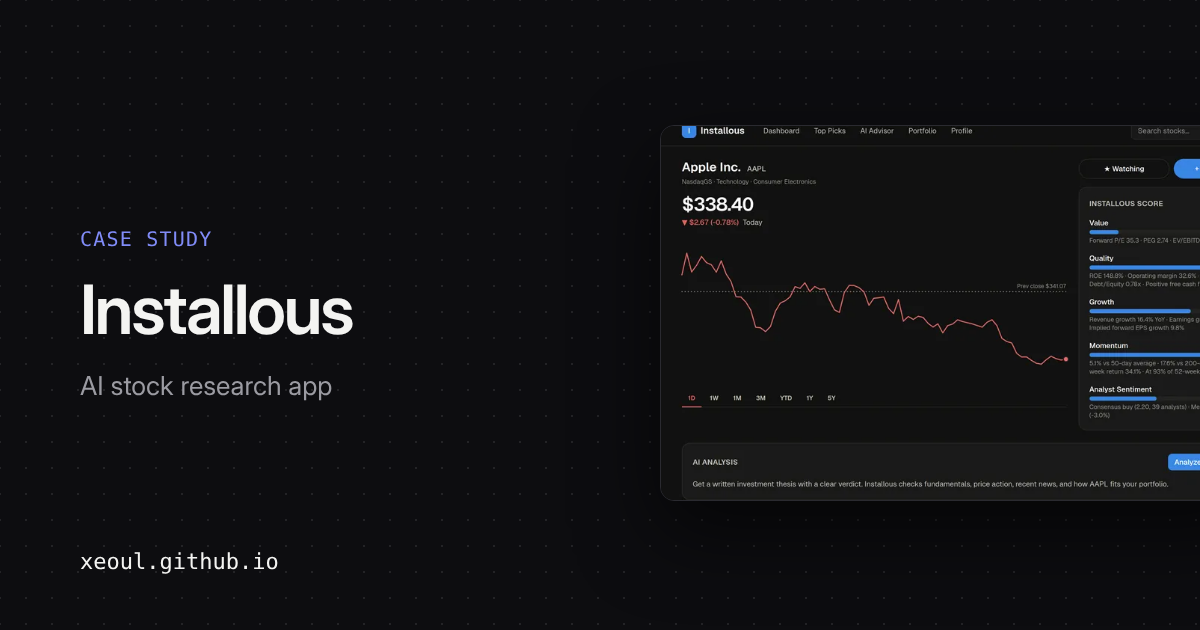
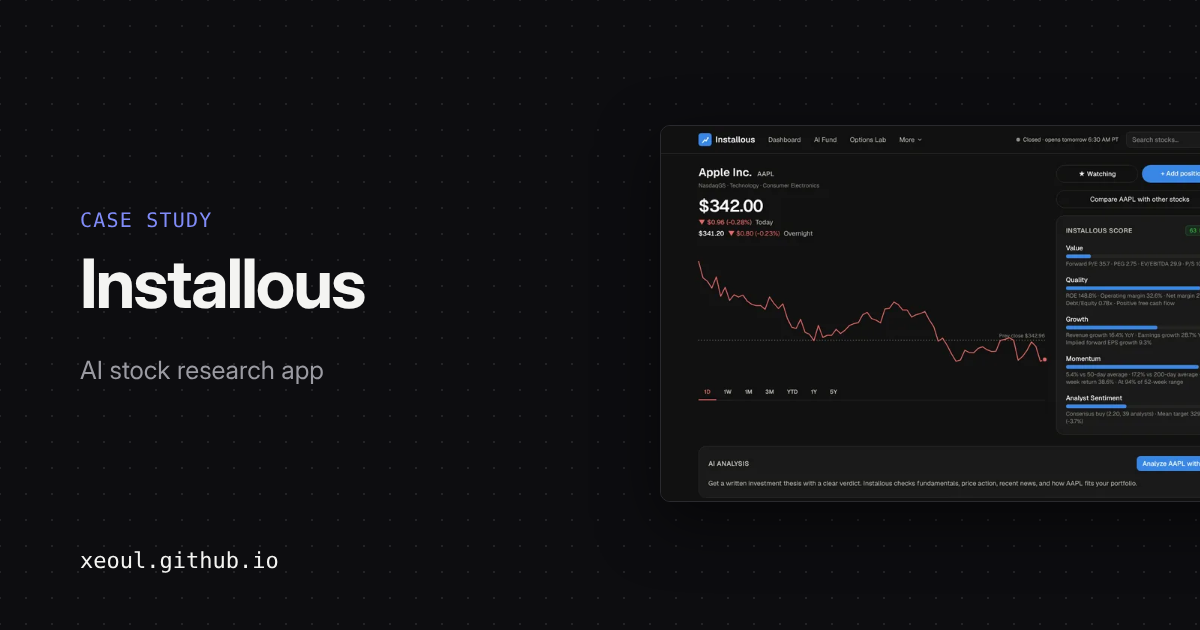
Bring Installous, Nagare and Sous Chef up to date with their repos
Installous: the Options Lab is now the live SPX condor bot on a 1-3-6
ladder (settle at 4:05, open the next from the real result), not the
SPY martingale simulator; charts are plain SVG, not Recharts; adds the
market clock, phone notifications and the condor workflow's self-
handoff. New Options Lab and stock-page screenshots.

Nagare: N5-N1 graded readings, ~30 Aozora classics including full
novels read a chapter at a time, Aozora search, the Tadoku shelf, PDF
import, the paged reader and the desktop layout. New reader screenshot.

Sous Chef: the demo is now the full app (aisles, pantry, planner,
cook-along, menus, desktop layout) with 273 checks; adds the per-recipe
check-off fix. New desktop shopping-list screenshot.

Link-preview cards regenerated for all three.

Claude-Session: https://claude.ai/code/session_01Rd5aH3btFtGoKzvAKSCB7M

diff --git a/docs/projects/installous/index.html b/docs/projects/installous/index.html
@@ -3,11 +3,11 @@
 <head>
     <meta charset="utf-8">
     <meta name="viewport" content="width=device-width, initial-scale=1, viewport-fit=cover">
-    <meta name="description" content="How Installous works: a stock research app with live market data, a transparent five-factor score, a Claude-powered analyst that looks things up with live tools, a rules-only AI Fund and an options lab that trade paper money against the S&amp;P 500.">
+    <meta name="description" content="How Installous works: a stock research app with live market data, a transparent five-factor score, a Claude-powered analyst that looks things up with live tools, a rules-only AI Fund against the S&amp;P 500, and a live paper bot that trades SPX iron condors.">
     <meta property="og:type" content="article">
     <meta property="og:url" content="https://xeoul.github.io/projects/installous/">
     <meta property="og:title" content="Installous case study - Vincent Lam">
-    <meta property="og:description" content="How Installous works: a stock research app with live market data, a transparent five-factor score, a Claude-powered analyst that looks things up with live tools, a rules-only AI Fund and an options lab that trade paper money against the S&amp;P 500.">
+    <meta property="og:description" content="How Installous works: a stock research app with live market data, a transparent five-factor score, a Claude-powered analyst that looks things up with live tools, a rules-only AI Fund against the S&amp;P 500, and a live paper bot that trades SPX iron condors.">
     <meta property="og:image" content="https://xeoul.github.io/images/og/installous.png">
     <meta property="og:image:width" content="1200">
     <meta property="og:image:height" content="630">
@@ -110,7 +110,7 @@
                         <dl class="case-meta">
                             <div>
                                 <dt>Stack</dt>
-                                <dd>TypeScript, Next.js, React, Tailwind CSS, Recharts, Claude API, Zod, Vitest, Yahoo Finance (REST and WebSocket), GitHub Actions</dd>
+                                <dd>TypeScript, Next.js, React, Tailwind CSS, SVG charts, Claude API, Zod, Vitest, Yahoo Finance (REST and WebSocket), GitHub Actions</dd>
                             </div>
                             <div>
                                 <dt>Links</dt>
@@ -133,21 +133,22 @@
                         <h2 id="features">What it does</h2>
                         <ul>
                             <li><strong>Dashboard:</strong> portfolio value, today's change, total gain or loss, a watchlist with one-day sparklines, and the day's top-ranked stocks.</li>
-                            <li><strong>Top Picks:</strong> ranks about 50 large-cap US stocks plus your watchlist by the Installous score, sortable by any factor and filterable by sector.</li>
+                            <li><strong>Top Picks:</strong> ranks about 50 large-cap US stocks plus your watchlist by the Installous score, with prices that update live, sortable by any factor and filterable by sector.</li>
                             <li><strong>Stock pages:</strong> a Robinhood-style chart with a live intraday view (a dotted previous-close line, green or red for up or down, and a price that rolls digit by digit as you follow it with your cursor), a price that ticks every second while the market is open, ranges from one week to five years, the factor breakdown, key metrics, news, and a one-click AI investment thesis.</li>
                             <li><strong>AI Advisor:</strong> a chat with an analyst that calls live tools and gives buy, hold or avoid views tailored to your risk tolerance, time horizon and goals.</li>
                             <li><strong>Portfolio:</strong> positions with average cost, live value, gain or loss, and weight.</li>
                             <li><strong><a href="https://xeoul.github.io/Installous/fund/" target="_blank" rel="noopener noreferrer">AI Fund</a>:</strong> a $100,000 paper-money portfolio that picks stocks by itself from the Installous score, started September 29, 2026. It shows its holdings, its track record against the S&amp;P 500, a five-year backtest of its rules, and a trade log that gives the reason for every buy and sell.</li>
-                            <li><strong><a href="https://xeoul.github.io/Installous/options/" target="_blank" rel="noopener noreferrer">Options Lab</a>:</strong> a paper bot that sells one same-day SPY iron condor every market day and doubles its size after each loss (the martingale), started October 12, 2026, above a simulator that replays the same idea over 20 years of S&amp;P 500 and VIX history, with a fixed size and the martingale side by side.</li>
+                            <li><strong><a href="https://xeoul.github.io/Installous/options/" target="_blank" rel="noopener noreferrer">Options Lab</a>:</strong> a live paper bot that trades one SPX (S&amp;P 500 index) iron condor at a time, started October 12, 2026. Right after each close it settles the condor expiring that day, sets the next size from a level ladder (1, 3 or 6 contracts: a loss moves up a level, any win goes back to 1), and sells the next one, expiring the next trading day. The page shows the order as it's placed and the open condor marked live off the index: profit or loss, a payoff chart and each leg's estimated price, plus the full trade history.</li>
                             <li><strong>Compare:</strong> up to four stocks side by side, with performance from the same starting day and their scores and fundamentals in one table.</li>
                             <li><strong>Earnings &amp; dividends:</strong> the next earnings date and estimates, the last four quarters' beats and misses, and yearly dividend history on every stock page.</li>
-                            <li><strong>Alerts and install:</strong> a GitHub issue assigned to the owner (which GitHub emails) whenever the fund trades, plus a weekly digest; and it installs to a phone's home screen like an app.</li>
+                            <li><strong>Alerts:</strong> a GitHub issue assigned to the owner (which GitHub emails) whenever the fund trades, plus a weekly digest, and a short phone notification for each condor trade or skipped day.</li>
+                            <li><strong>Built like a phone app:</strong> it installs to the home screen and opens full screen with a bottom tab bar, a "More" sheet for the less-used pages, and a market clock in the header that shows whether the market is open and when it next opens or closes.</li>
                         </ul>
                     </section>
 
                     <section class="case-section" aria-labelledby="build">
                         <h2 id="build">How it's built</h2>
-                        <p>Next.js with the App Router and TypeScript, styled with Tailwind CSS, with charts drawn by Recharts. Server-side API routes (stock, history, sparklines, picks, news, search, portfolio, watchlist, profile and chat) sit between the browser and the data. Market data comes from Yahoo Finance through yahoo-finance2 and needs no API key; the advisor uses the Anthropic SDK and streams its answer back. Live prices come from Yahoo's free streaming feed: the browser opens one shared WebSocket, decodes its protobuf messages itself, subscribes only to the tickers on screen, and reconnects with backoff, so it works in the static demo too.</p>
+                        <p>Next.js with the App Router and TypeScript, styled with Tailwind CSS. The charts are plain SVG drawn by the app's own code rather than a chart library, which keeps each page to about 180 to 190 KB of compressed JavaScript; the AI chat and its markdown renderer only load when used. Server-side API routes (stock, history, sparklines, picks, news, search, portfolio, watchlist, profile and chat) sit between the browser and the data. Market data comes from Yahoo Finance through yahoo-finance2 and needs no API key; the advisor uses the Anthropic SDK and streams its answer back. Live prices come from Yahoo's free streaming feed: the browser opens one shared WebSocket, decodes its protobuf messages itself, subscribes only to the tickers on screen, and reconnects with backoff, so it works in the static demo too.</p>
                         <p>Your watchlist, holdings and profile are saved to a local JSON file in a git-ignored folder, so positions never get committed.</p>
                     </section>
 
@@ -167,12 +168,13 @@
                         <p>A backtest replays the fund's rules over the last five years so there's something to judge them by before the live record matures. Free data only has today's company fundamentals, and scoring 2021 with 2026's numbers would quietly use the future, so the backtest ranks stocks by momentum alone, the part of the score that can be rebuilt from past prices. Each day's decisions use only prices up to the day before, and a test checks this: it fails if the backtest is changed to peek at the same day's price.</p>
                         <p>The first result looked too good: about +274% against +80% for the S&amp;P 500. So the page also shows a control, the same 50 stocks bought equally and held. That control returned about +152%, which means roughly half the gap came from the stock list itself (today's large caps, picked with hindsight), not from the rules. The rules still came out ahead overall but trailed buy-and-hold in 2023 and 2025, and the page says all of this next to the chart. (Figures from October 2026; the backtest re-runs with the live data.)</p>
                         <img class="case-preview" src="/images/projects/installous-fund.webp" width="800" height="500" loading="lazy" decoding="async" alt="Installous AI Fund backtest: five years of the momentum rules against the same 50 stocks held and the S&amp;P 500, with total return, yearly return, worst drop and volatility, and returns by year">
-                        <h3>A strategy test that shows how it fails</h3>
-                        <p>The martingale is a classic betting system: double the bet after every loss, so one win wins back everything. Selling iron condors looks made for it, because they win most days. The Options Lab puts that to a test instead of a pitch. With the defaults (same-day condors at 10 delta since 2006), the martingale finished about level with a fixed size, +117% against +117%, while its worst drop was deeper (7.1% against 5.0%) and its worst single trade almost four times bigger. A table beside the results shows why: after 7 losses in a row, the losses so far plus the next bet add up to more than the whole $25,000 account, and the page marks the dates each setting would have gone bust. (Figures from October 2026.)</p>
-                        <p>Historical option prices aren't free, so the simulator prices every option with Black-Scholes from that day's VIX, and same-day trades open with yesterday's VIX so they can't see the day they're betting on; tests check the pricing, strikes, settlement, sizing and that look-ahead rule. The live bot trades real (delayed) SPY quotes instead: strikes nearest 10 delta from the market's expected move, $2 wings, filled at the mid less a cent of slippage, and settled only on the official close. It only opens a trade while Yahoo reports the regular session open, so on a half day it can't "open" after the result is already known.</p>
-                        <img class="case-preview" src="/images/projects/installous-options.webp" width="800" height="500" loading="lazy" decoding="async" alt="Installous Options Lab: 20 years of same-day SPY iron condors with a fixed size and with martingale sizing, ending at about the same value, with the martingale's deeper worst drop and larger worst trade">
+                        <h3>A condor bot that trades like a person would</h3>
+                        <p>An iron condor sells a call spread above the market and a put spread below it, and keeps the money it collected if the index finishes between them. The bot trades the S&amp;P 500 index itself (SPX), whose options settle in cash at the 4pm close, with 5-point wings and short strikes placed so it collects about $2.50 a share: roughly +$250 on a win and -$250 on a full loss, per contract. Its sizing is a gentler martingale: three levels of 1, 3 and 6 contracts, where a loss moves up a level, any win goes back to the first, and a loss on the last level starts over instead of doubling into ruin. It skips a day when a Fed decision, a CPI report or a jobs report would land while the condor is open, or when the condor would pay under $1.50 a share.</p>
+                        <p>The first version opened the next condor at 3:27pm and sized it from a guess at how the expiring one would finish. One afternoon the index closed 16 cents on the wrong side of a short strike, the guess was wrong, and the real result never corrected the ladder. Index options trade until 4:15pm, so now the bot settles first, at 4:05pm, and opens the next condor between 4:05 and 4:14 from the real result. It fills at real (delayed) Yahoo quotes, prices monthly-expiration Fridays only from the SPXW contracts that settle at the close (the standard monthly SPX contract settles on that morning's open), and trades only when both Yahoo and an NYSE holiday and half-day calendar agree the market is open. Tests replay its real schedule over weeks of made-up days, including duplicate runs, weekends, Thanksgiving and a half day, and check that it opens exactly one condor a day at exactly its level's size.</p>
+                        <img class="case-preview" src="/images/projects/installous-options.webp" width="800" height="500" loading="lazy" decoding="async" alt="Installous Options Lab: the live SPX bot's next order, and its open iron condor with profit if closed now, a payoff chart marking the current index price, and each leg's strike and estimated price">
                         <h3>Keeping the scheduled jobs moving</h3>
-                        <p>The AI Fund and the condor bot both run in one scheduled GitHub Actions workflow. In October a Pages deploy sat waiting indefinitely, and because every run shared one queue, everything behind it was cancelled: the fund and the demo data stopped updating for six days. The workflow now gives the deploy its own queue, where a newer deploy replaces an older one, with a 15-minute timeout, while the step that updates the fund's state still runs strictly one at a time. Two later passes fixed about fifteen smaller bugs, from prices quoted in pence showing 100 times too high to tickers like BRK/B turning into a different company, with tests covering the fixes, for about 80 tests in all.</p>
+                        <p>The AI Fund runs in one scheduled GitHub Actions workflow. In October a Pages deploy sat waiting indefinitely, and because every run shared one queue, everything behind it was cancelled: the fund and the demo data stopped updating for six days. The workflow now gives the deploy its own queue, where a newer deploy replaces an older one, with a 15-minute timeout, while the step that updates the fund's state still runs strictly one at a time.</p>
+                        <p>The condor bot has to be running at the close every trading day, and GitHub skipped every scheduled run on one of its first days. So it has its own workflow that runs around the clock: each run steps the bot at its times and, before GitHub's six-hour job limit, starts the next run itself, which GitHub doesn't skip the way it skips scheduled runs. The schedule is only a fallback that restarts the chain if a run is ever lost, and one shared queue makes sure exactly one run carries it on. Fixes along the way, from prices quoted in pence showing 100 times too high to tickers like BRK/B turning into a different company, each came with a test, for about 125 tests in all.</p>
                         <h3>Useful without the AI</h3>
                         <p>Everything except the advisor works without an Anthropic API key: the dashboard, picks, charts and portfolio run on market data alone.</p>
                     </section>
@@ -181,7 +183,7 @@
                         <h2 id="limits">Current limits</h2>
                         <p>The full app is single-user and runs locally. The live demo is a static build of the same code: market data is a snapshot of about 50 large caps that a GitHub Action refreshes every 30 minutes while markets are open, your portfolio and watchlist stay in your browser, and the AI advisor runs with your own Anthropic API key. Top Picks ranks that fixed list plus your watchlist, not the whole market.</p>
                         <p>The AI Fund trades simulated money at the latest snapshot price, so real fills would differ a little. Its returns and the S&amp;P 500's both leave out dividends, and a track record measured in weeks says little about whether the rules actually work. The backtest can't test the fundamental factors and still carries some hindsight from its stock list, so it shows how the rules behave rather than predicting returns.</p>
-                        <p>The Options Lab's simulated prices ignore skew (crash protection usually costs more than Black-Scholes says), so its results are estimates, and the live bot fills at delayed mid prices. It's a learning tool for a strategy, not a recommendation to trade it.</p>
+                        <p>The condor bot trades paper money at delayed quotes, filled at the mid price less a cent of slippage, so real fills would differ. Its record is days old, and a strategy that wins most days can still lose several in a row. It's a learning tool for a strategy, not a recommendation to trade it.</p>
                     </section>
 
                     <nav class="case-pager" aria-label="More case studies">

diff --git a/docs/projects/nagare/index.html b/docs/projects/nagare/index.html
@@ -3,11 +3,11 @@
 <head>
     <meta charset="utf-8">
     <meta name="viewport" content="width=device-width, initial-scale=1, viewport-fit=cover">
-    <meta name="description" content="How Nagare works: a Japanese reader that runs entirely in the browser, with furigana, tap-to-look-up words, JLPT levels, spaced-repetition review, read-aloud and on-device translation.">
+    <meta name="description" content="How Nagare works: a Japanese reader that runs entirely in the browser, with a paged e-reader, furigana, tap-to-look-up words, JLPT levels, a library from N5 readers to full novels, spaced-repetition review, read-aloud and on-device translation.">
     <meta property="og:type" content="article">
     <meta property="og:url" content="https://xeoul.github.io/projects/nagare/">
     <meta property="og:title" content="Nagare case study - Vincent Lam">
-    <meta property="og:description" content="How Nagare works: a Japanese reader that runs entirely in the browser, with furigana, tap-to-look-up words, JLPT levels, spaced-repetition review, read-aloud and on-device translation.">
+    <meta property="og:description" content="How Nagare works: a Japanese reader that runs entirely in the browser, with a paged e-reader, furigana, tap-to-look-up words, JLPT levels, a library from N5 readers to full novels, spaced-repetition review, read-aloud and on-device translation.">
     <meta property="og:image" content="https://xeoul.github.io/images/og/nagare.png">
     <meta property="og:image:width" content="1200">
     <meta property="og:image:height" content="630">
@@ -110,7 +110,7 @@
                         <dl class="case-meta">
                             <div>
                                 <dt>Stack</dt>
-                                <dd>TypeScript, Next.js, React, kuromoji.js, JMdict, transformers.js, Web Speech API, IndexedDB</dd>
+                                <dd>TypeScript, Next.js, React, kuromoji.js, JMdict, transformers.js, pdf.js, Web Speech API, IndexedDB</dd>
                             </div>
                             <div>
                                 <dt>Links</dt>
@@ -122,7 +122,7 @@
                         </dl>
                     </div>
 
-                    <img class="case-preview" src="/images/projects/nagare.webp" width="800" height="500" decoding="async" alt="Nagare reading a starter story with furigana, with the word 公園 tapped to show its reading, JLPT level and meaning">
+                    <img class="case-preview" src="/images/projects/nagare.webp" width="800" height="500" decoding="async" alt="Nagare's paged reader on page 2 of 坊っちゃん with furigana, and the word 親指 tapped to show its reading, N2 level and meaning">
 
                     <section class="case-section" aria-labelledby="problem">
                         <h2 id="problem">The problem</h2>
@@ -132,21 +132,25 @@
                     <section class="case-section" aria-labelledby="features">
                         <h2 id="features">What it does</h2>
                         <ul>
-                            <li><strong>Import</strong> a .txt or .epub file, or start from the built-in shelf: starter readings, Wikibooks graded readers, and Aozora Bunko classics, each tagged with a level.</li>
+                            <li><strong>A library from N5 to N1:</strong> original graded readings written for Nagare at every level, Wikibooks graded readers, a shelf linking all 141 free Tadoku graded readers, and about 30 Aozora Bunko classics, from short stories to full novels like 坊っちゃん and こころ, each tagged with a level.</li>
+                            <li><strong>Search Aozora Bunko:</strong> about 10,500 public-domain works, searchable by title or author in kanji or kana, fetched when you open one.</li>
+                            <li><strong>Import</strong> a .txt, .epub or .pdf file; long books are split into chapters.</li>
+                            <li><strong>A paged reader</strong> like an e-reader: turn pages by tapping the edges, swiping or with the arrow keys, in horizontal or vertical text, with the page number and minutes left in the chapter. An "Aa" panel sets the text size, spacing and page color, or switches to scrolling.</li>
                             <li><strong>Furigana</strong> you can switch on or off, and it remembers your choice.</li>
                             <li><strong>Tap any word</strong> for its reading, meaning, part of speech and JLPT level, and add it to your word list.</li>
                             <li><strong>Translate a sentence</strong> with a model that runs on your device.</li>
                             <li><strong>A swipeable sentence feed</strong> filtered by level (N5, N4, N3+), with a link to read the full story and a list of sentences you've saved. Every few swipes, a quiz card asks what a word means, taken from a feed sentence or your word list.</li>
                             <li><strong>Review</strong> saved words as spaced-repetition flashcards: answer Again, Hard, Good or Easy and see when each word comes back. A card on the Saved page shows how many are due.</li>
                             <li><strong>Listen</strong> to any sentence or word read aloud by the device's built-in Japanese voice.</li>
-                            <li><strong>Continue reading</strong> from where you left off.</li>
+                            <li><strong>Continue reading</strong> from where you left off, down to the chapter and page.</li>
+                            <li><strong>A desktop layout</strong> with a sidebar, wide shelves and a lookup panel beside the text; phones keep the app-style layout.</li>
                         </ul>
                     </section>
 
                     <section class="case-section" aria-labelledby="build">
                         <h2 id="build">How it's built</h2>
                         <p>Next.js and TypeScript, exported as a static site, so everything runs in the browser with no backend and no account. kuromoji.js splits text into words on the page. Lookups use a dictionary of about 22,000 common words built from JMdict, tagged with JLPT levels from an MIT-licensed word list; both files are generated ahead of time by Node scripts.</p>
-                        <p>EPUBs are unzipped with JSZip, following the book's spine to get the text in order. The library, reading progress, word list and saved sentences live in IndexedDB. Read-aloud uses the browser's built-in Web Speech API with the device's Japanese voice, so there are no audio files to ship. A GitHub Actions workflow builds the site and publishes it to GitHub Pages.</p>
+                        <p>EPUBs are unzipped with JSZip, following the book's spine to get the chapters in order. PDFs are read with pdf.js, which only loads when a PDF is imported. The library, reading progress, word list and saved sentences live in IndexedDB. Read-aloud uses the browser's built-in Web Speech API with the device's Japanese voice, so there are no audio files to ship. A GitHub Actions workflow builds the site and publishes it to GitHub Pages.</p>
                     </section>
 
                     <section class="case-section" aria-labelledby="decisions">
@@ -157,8 +161,12 @@
                         <p>Readings come from the tokenizer rather than the source text, and matching kana at the end of a word is split off, so in 食べる only 食 gets た and べる stays plain.</p>
                         <h3>Leveling the classics honestly</h3>
                         <p>Aozora Bunko has no JLPT grading, so a script reads each work, looks up every content word's JLPT level, and assigns the lowest level that covers 80% of the words it could classify. It also reports how much of the text falls outside every JLPT list (names, archaic forms, rare compounds), because that makes a text harder too. Native literature almost never reads as N5 or N4, so the classics start at N3.</p>
+                        <h3>Novels one chapter at a time</h3>
+                        <p>A novel can run to 300,000 characters, far too much to split into words and draw as one page. Aozora Bunko marks its headings, so those become chapter breaks, and the reader only ever processes the chapter you're on. Text without headings, like an imported .txt, is split into parts of about 10,000 characters at paragraph breaks. Progress is saved as the chapter plus how far into it you are, so reopening a book lands in the right place.</p>
+                        <h3>Text out of a PDF, without the furigana</h3>
+                        <p>Free graded readers like Tadoku's come as PDFs, and their license allows linking to them but not redistributing them, so Nagare bundles only a list of titles and links, and you import the PDF yourself. A PDF stores positioned runs of text rather than prose, so the importer rebuilds it: it drops furigana by font size (anything under three-quarters of the body text), splits two-page print spreads left then right, joins spaced-out characters, and skips page numbers, English notes and the how-to-read and credits pages.</p>
                         <h3>Translation in a Web Worker</h3>
-                        <p>Sentence translation uses the opus-mt-ja-en model through transformers.js. In testing, the model's WebAssembly call could sometimes block for a very long time, and a timeout on the same thread can't interrupt that, so it runs in a worker that can be shut down after 20 seconds.</p>
+                        <p>Sentence translation uses the opus-mt-ja-en model through transformers.js. In testing, the model's WebAssembly call could sometimes block for a very long time, and a timeout on the same thread can't interrupt that, so it runs in a worker that can be shut down after 20 seconds. The model is about 110 MB, so a request made while it's still downloading gets up to 10 minutes instead; an audit found the short timeout was killing the worker mid-download and starting the download over.</p>
                     </section>
 
                     <section class="case-section" aria-labelledby="next">

diff --git a/docs/projects/sous-chef/index.html b/docs/projects/sous-chef/index.html
@@ -3,11 +3,11 @@
 <head>
     <meta charset="utf-8">
     <meta name="viewport" content="width=device-width, initial-scale=1, viewport-fit=cover">
-    <meta name="description" content="How Sous Chef works: a single-page meal planner that scales recipes, merges them into one shopping list and converts between US and metric units.">
+    <meta name="description" content="How Sous Chef works: a single-page meal planner that scales recipes, merges them into one shopping list sorted by aisle, converts between US and metric units, and walks you through cooking.">
     <meta property="og:type" content="article">
     <meta property="og:url" content="https://xeoul.github.io/projects/sous-chef/">
     <meta property="og:title" content="Sous Chef case study - Vincent Lam">
-    <meta property="og:description" content="How Sous Chef works: a single-page meal planner that scales recipes, merges them into one shopping list and converts between US and metric units.">
+    <meta property="og:description" content="How Sous Chef works: a single-page meal planner that scales recipes, merges them into one shopping list sorted by aisle, converts between US and metric units, and walks you through cooking.">
     <meta property="og:image" content="https://xeoul.github.io/images/og/sous-chef.png">
     <meta property="og:image:width" content="1200">
     <meta property="og:image:height" content="630">
@@ -122,7 +122,7 @@
                         </dl>
                     </div>
 
-                    <img class="case-preview" src="/images/projects/sous-chef.webp" width="800" height="500" decoding="async" alt="Sous Chef's combined shopping list for the week, with one item checked off">
+                    <img class="case-preview" src="/images/projects/sous-chef.webp" width="800" height="500" decoding="async" alt="Sous Chef on a desktop: the combined shopping list sorted into produce, pantry, meat and dairy sections, with butter checked off">
 
                     <section class="case-section" aria-labelledby="problem">
                         <h2 id="problem">The problem</h2>
@@ -132,20 +132,20 @@
                     <section class="case-section" aria-labelledby="features">
                         <h2 id="features">What it does</h2>
                         <ul>
-                            <li><strong>Plan the week:</strong> tap recipes to plan them and set how many servings of each you're cooking.</li>
-                            <li><strong>One shopping list:</strong> ingredients scaled to your servings and merged across recipes, shown combined or grouped by recipe, and checked off as you shop.</li>
+                            <li><strong>Plan the week:</strong> tap recipes to plan them, set how many servings of each you're cooking, and pick a day for each on the week strip.</li>
+                            <li><strong>One shopping list:</strong> ingredients scaled to your servings and merged across recipes, sorted by aisle, shown combined or grouped by recipe, and checked off as you shop. It skips what's already in your pantry, adds the things you buy every week, and rounds whole items up to what you'd actually buy.</li>
                             <li><strong>US or metric</strong> units, switched with one tap.</li>
-                            <li><strong>Cook view:</strong> each planned recipe's scaled ingredients and step-by-step directions.</li>
-                            <li><strong>AI recipe import:</strong> search the web, paste a link or paste an ingredient list, and the recipe is sorted into fields for you.</li>
+                            <li><strong>Cook:</strong> each planned recipe's scaled ingredients beside its step-by-step directions, and a full-screen cook-along with timers.</li>
+                            <li><strong>Recipes your way:</strong> tags, ratings and favorites, plus sharing, printing, and backing up or restoring your recipes.</li>
+                            <li><strong>AI helpers:</strong> import a recipe from a web search, a link or a pasted ingredient list, plan a week for you, suggest what you can make from what you have, swap ingredients, and estimate nutrition and cost.</li>
+                            <li><strong>Phone or desktop:</strong> an app-style single column on a phone; on a desktop, one header bar and a sidebar of controls beside the list on every tab, with less-used actions tucked into ⋯ menus.</li>
                         </ul>
                     </section>
 
                     <section class="case-section" aria-labelledby="build">
                         <h2 id="build">How it's built</h2>
-                        <p>A single self-contained HTML page of plain JavaScript, with no build step and no dependencies. It was built as a Claude artifact: run inside Claude, recipes and the week's plan sync through the artifact's database, and recipe import uses AI parsing plus web search and fetch. Anywhere else, including the live demo, it saves to localStorage and works the same apart from the AI import.</p>
-                        <p>A GitHub Actions workflow publishes the demo to GitHub Pages, with a small script that adds a few sample recipes the first time it opens with nothing saved.</p>
-                        <h3>The full version</h3>
-                        <p>The live demo is the first public version. The <a href="https://github.com/Xeoul/sous-chef/tree/main/artifact" target="_blank" rel="noopener noreferrer">full Claude artifact</a> goes further: a day-by-day week planner, a shopping list sorted by aisle that skips what's in your pantry, adds the things you buy every week and rounds whole items up to what you'd actually buy, a full-screen cook-along with timers, tags, ratings and photos, sharing, printing and backups, and AI helpers that plan a week for you, suggest what you can make from what you have, swap ingredients, and estimate nutrition and cost. Four Playwright suites drive it in a real browser with the artifact's database and AI mocked, 235 checks in all, including one that fails if the sync fix below is removed.</p>
+                        <p>A single self-contained HTML page of plain JavaScript, with no dependencies. It's built as a Claude artifact: run inside Claude, recipes and the week's plan sync through the artifact's database, and the AI helpers use a model plus web search and fetch. Anywhere else, including the live demo, it saves to localStorage and everything but the AI works the same.</p>
+                        <p>The live demo is built from the same artifact source by a short Python script, which wraps it in a page with the site's icons and a small script that adds a few sample recipes the first time it opens with nothing saved; a GitHub Actions workflow publishes it to GitHub Pages. Four Playwright suites drive the app in a real browser with the artifact's database and AI mocked, 273 checks in all, including phone and desktop layouts and one that fails if the sync fix below is removed.</p>
                     </section>
 
                     <section class="case-section" aria-labelledby="decisions">
@@ -156,13 +156,15 @@
                         <p>Every weight is converted to grams and every volume to millilitres, then back into the most readable unit for the chosen system: under 15 ml shows as teaspoons, under 59 ml as tablespoons, then cups, quarts and gallons, and ounces become pounds at 16. So 48 teaspoons across three recipes shows up as 1 cup.</p>
                         <h3>Update the list, don't rebuild it</h3>
                         <p>Rebuilding the whole list on every tap replayed each row's entrance animation whenever you checked something off or changed a serving count. A keyed update patches the rows that are already there and only creates new ones, so only new items animate in.</p>
+                        <h3>Check-offs that belong to a recipe</h3>
+                        <p>Check-offs used to be stored by ingredient name and unit, so when two planned recipes both used garlic, ticking it in one ticked it in the other. Now each recipe's share of an item has its own check-off, and the combined row is ticked once every recipe's share is, and ticks or unticks them all. Lists saved before the change still show as ticked and split into per-recipe ticks the first time one changes, so nobody's list was lost. A regression test covers exactly that case and fails on the old code.</p>
                         <h3>No lost check-offs while syncing</h3>
                         <p>Changes to the week are saved to the database after a short 350 ms pause. Until a change has been sent and acknowledged, any copy the database sends back is older than what's on screen, so it's held until the save settles. Otherwise it could briefly undo newer check-offs, and the next one would be built on that stale copy.</p>
                     </section>
 
                     <section class="case-section" aria-labelledby="limits">
                         <h2 id="limits">Current limits</h2>
-                        <p>AI import only works inside Claude, where the page can call a model and search the web; the standalone demo supports recipes you type in. Outside Claude, your recipes live in one browser. The full version's planner, aisles, cook-along and AI helpers aren't in the public demo yet.</p>
+                        <p>The AI helpers only work inside Claude, where the page can call a model and search the web. In the demo you type recipes in, nutrition and cost aren't estimated, and "Plan for me" picks from your own recipes without AI. Outside Claude, your recipes live in one browser.</p>
                     </section>
 
                     <nav class="case-pager" aria-label="More case studies">

diff --git a/docs/index.html b/docs/index.html
@@ -281,12 +281,12 @@
                         </summary>
                         <div class="project-body">
                             <img class="project-preview" src="images/projects/installous.webp" width="800" height="500" loading="lazy" decoding="async" alt="Installous stock page for Apple: price chart with the previous-close line, and the five-factor Installous score">
-                            <p class="project-description">A personal investing assistant with prices that stream in every second, a five-factor stock score (value, quality, growth, momentum and analyst sentiment), Robinhood-style charts, and a Claude-powered advisor that calls live tools for quotes, fundamentals and news. Two paper-money experiments run on a schedule: a rules-only AI Fund against the S&amp;P 500, with a five-year backtest, and an Options Lab that tests martingale sizing on SPY iron condors, live and over 20 years of history.</p>
+                            <p class="project-description">A personal investing assistant with prices that stream in every second, a five-factor stock score (value, quality, growth, momentum and analyst sentiment), Robinhood-style charts, and a Claude-powered advisor that calls live tools for quotes, fundamentals and news. Two paper-money experiments run on their own: a rules-only AI Fund against the S&amp;P 500, with a five-year backtest, and a live bot that trades SPX iron condors after each close on a 1-3-6 contract ladder, with every order and open position shown live.</p>
                             <div class="tech-tags">
                                 <span class="tech-tag">TypeScript</span>
                                 <span class="tech-tag">Next.js</span>
                                 <span class="tech-tag">Claude API</span>
-                                <span class="tech-tag">Recharts</span>
+                                <span class="tech-tag">GitHub Actions</span>
                                 <span class="tech-tag">Yahoo Finance</span>
                                 <span class="tech-tag">WebSocket</span>
                             </div>
@@ -306,8 +306,8 @@
                             </span>
                         </summary>
                         <div class="project-body">
-                            <img class="project-preview" src="images/projects/nagare.webp" width="800" height="500" loading="lazy" decoding="async" alt="Nagare reading a starter story with furigana, with the word 公園 tapped to show its reading, JLPT level and meaning">
-                            <p class="project-description">Import a .txt or .epub, toggle furigana, and tap any word for its reading, meaning and JLPT level. Saved words come back as spaced-repetition flashcards and as quiz cards in a swipeable sentence feed, and any sentence can be read aloud. Text is tokenized in the browser with kuromoji.js against a JMdict-derived dictionary of 22k common words, with progress kept in IndexedDB.</p>
+                            <img class="project-preview" src="images/projects/nagare.webp" width="800" height="500" loading="lazy" decoding="async" alt="Nagare's paged reader on page 2 of 坊っちゃん with furigana, and the word 親指 tapped to show its reading, N2 level and meaning">
+                            <p class="project-description">Read from a library that runs from N5 graded readings to full Aozora Bunko novels, or search 10,500 more or import a .txt, .epub or .pdf, in a paged reader with furigana where you tap any word for its reading, meaning and JLPT level. Saved words come back as spaced-repetition flashcards and as quiz cards in a swipeable sentence feed, and any sentence can be read aloud. Text is tokenized in the browser with kuromoji.js against a JMdict-derived dictionary of 22k common words, with progress kept in IndexedDB.</p>
                             <div class="tech-tags">
                                 <span class="tech-tag">TypeScript</span>
                                 <span class="tech-tag">Next.js</span>
@@ -357,8 +357,8 @@
                             </span>
                         </summary>
                         <div class="project-body">
-                            <img class="project-preview" src="images/projects/sous-chef.webp" width="800" height="500" loading="lazy" decoding="async" alt="Sous Chef's combined shopping list for the week, with one item checked off">
-                            <p class="project-description">Plan the week's recipes and get one shopping list: servings scaling, US and metric conversion, combined or per-recipe lists, and AI recipe import from a web search, a link or pasted ingredients. The full Claude-artifact version adds a day-by-day planner, a list sorted by aisle, a cook-along and AI meal-planning helpers, with 235 browser checks.</p>
+                            <img class="project-preview" src="images/projects/sous-chef.webp" width="800" height="500" loading="lazy" decoding="async" alt="Sous Chef on a desktop: the combined shopping list sorted into produce, pantry, meat and dairy sections, with butter checked off">
+                            <p class="project-description">Plan the week's recipes and get one shopping list: servings scaling, US and metric conversion, a list sorted by aisle that skips your pantry, a day-by-day planner, a cook-along with timers, and AI helpers that import recipes and plan meals. Built as a Claude artifact, with a desktop layout and 273 browser checks.</p>
                             <div class="tech-tags">
                                 <span class="tech-tag">JavaScript</span>
                                 <span class="tech-tag">HTML/CSS</span>
